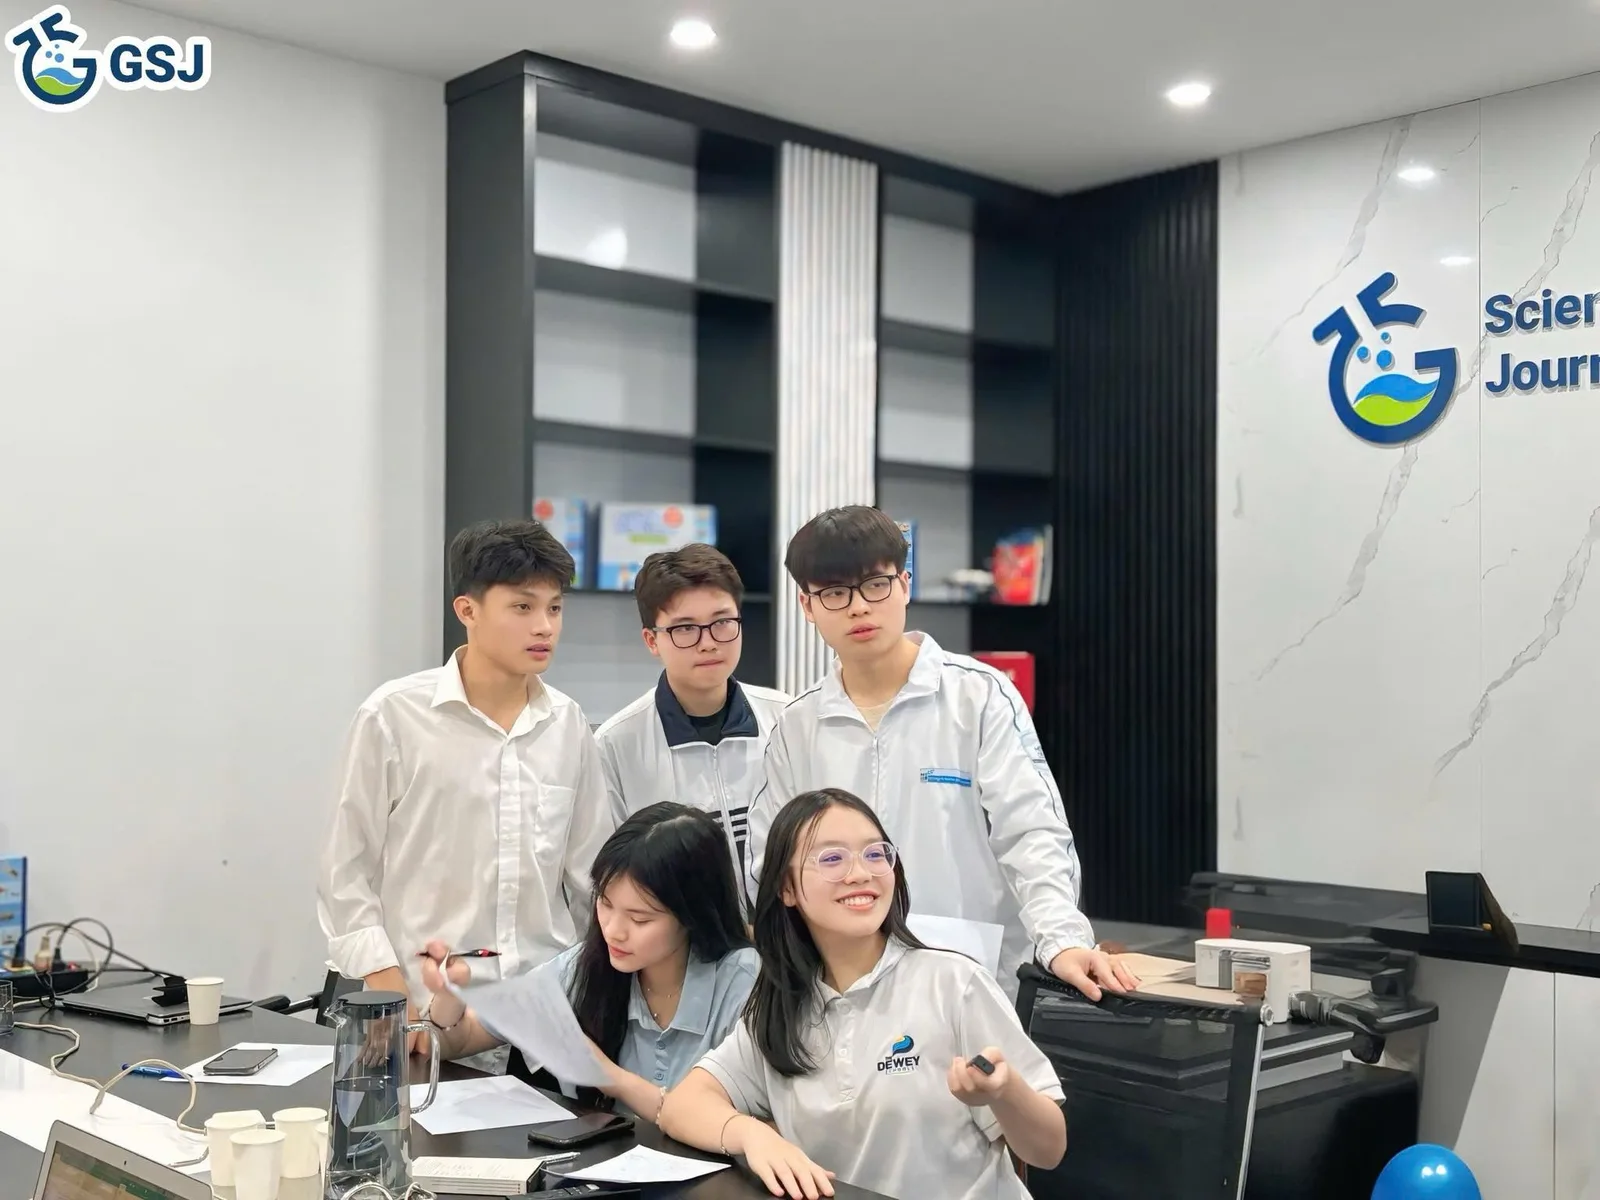
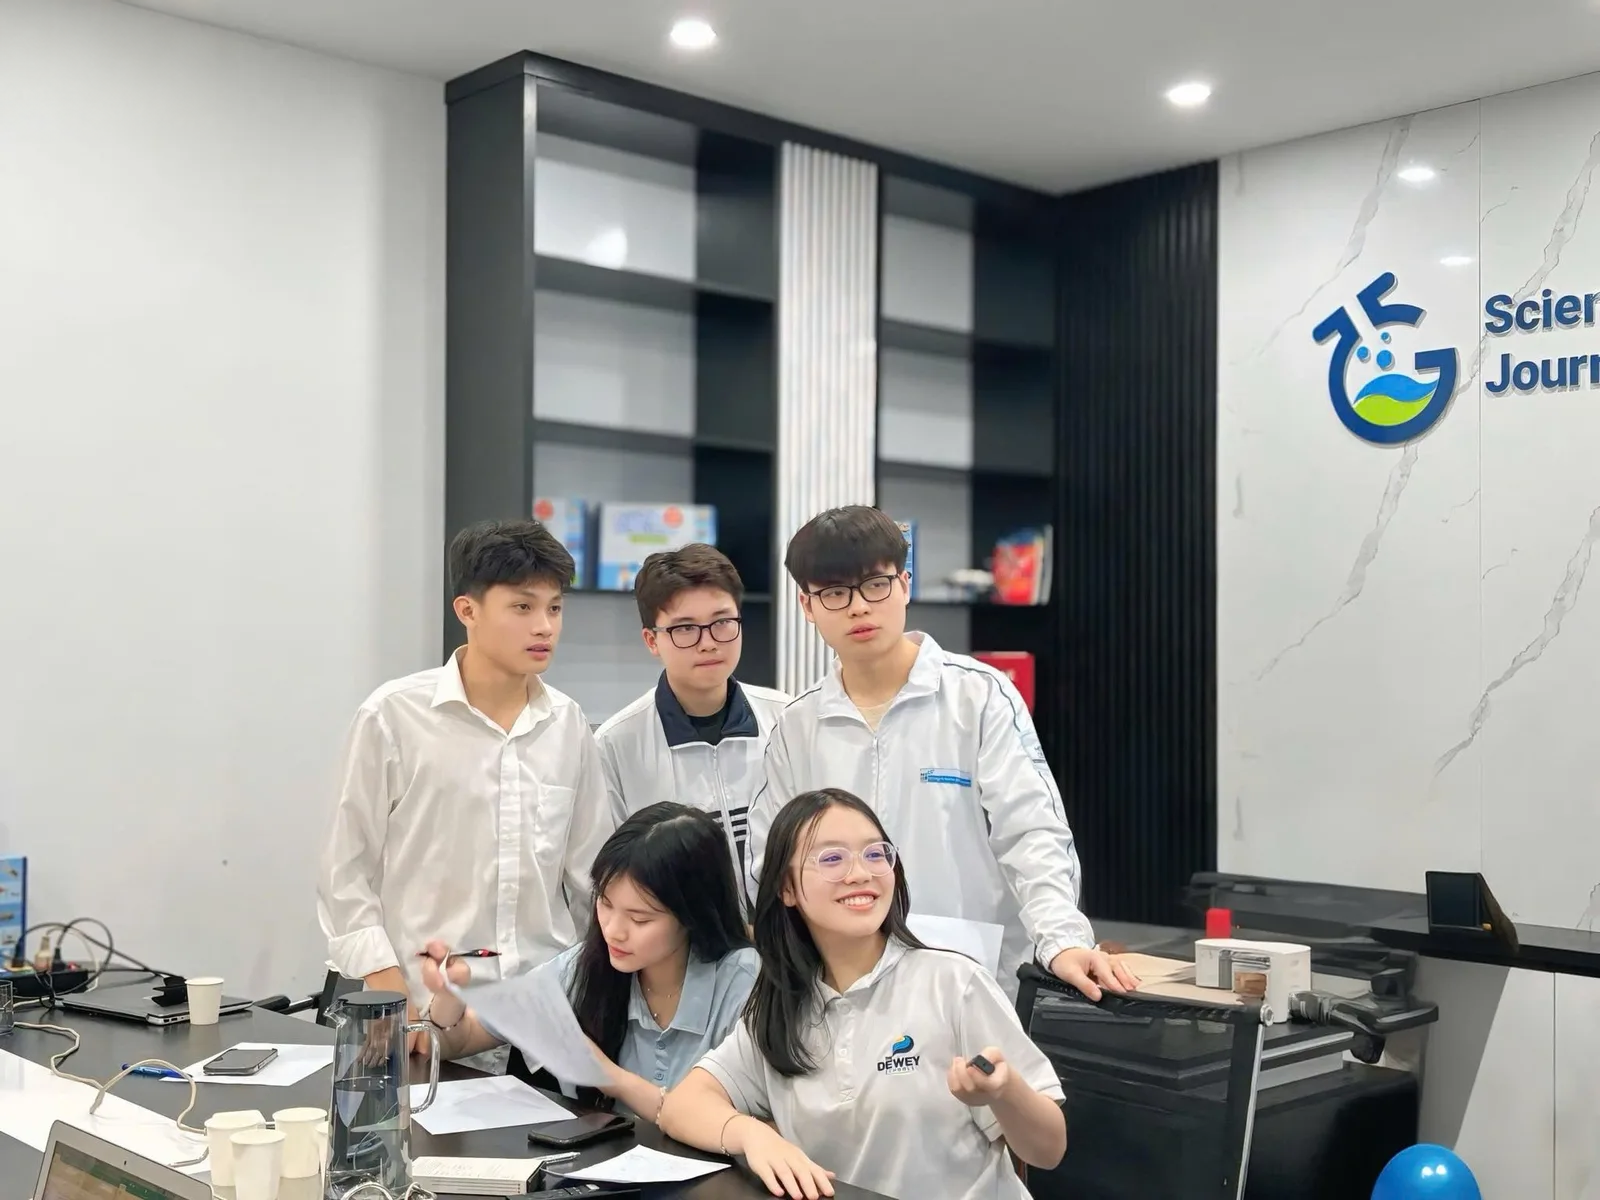
fix: polish GSJ layout, headings and CMS media refresh

Changed region(s): [[0.0, 0.0, 0.1562, 0.0925]]

diff --git a/index.html b/index.html
@@ -22,10 +22,10 @@
       href="https://fonts.googleapis.com/css2?family=Material+Symbols+Outlined:opsz,wght,FILL,GRAD@24,400,0,0"
       rel="stylesheet"
     />
-    <link rel="stylesheet" href="style.css?v=20261031-portraits" />
+    <link rel="stylesheet" href="style.css?v=20261031-approach" />
     <script src="main.js?v=20261031-cms" defer=""></script>
     <script data-gsj-cms="" src="cms-config.js?v=1" defer=""></script>
-    <script data-gsj-cms="" src="cms-client.js?v=1" defer=""></script>
+    <script data-gsj-cms="" src="cms-client.js?v=20261031-media" defer=""></script>
   </head>
   <body data-cms-page="home">
     <a class="skip-link" href="#main">Skip to content</a>
@@ -569,12 +569,12 @@
       </section>
       <section class="section pale">
         <div class="container">
-          <div class="intro-split reveal">
+          <div class="intro-split reveal" id="approach">
             <p class="eyebrow" data-cms-text="section3.t1">THE GSJ APPROACH</p>
             <div>
               <h2>
                 <span data-cms-wrap="true" data-cms-text="section3.t2"
-                  >More than academic excellence.</span
+                  >More than academic excellence,</span
                 >
                 <br />
                 <em data-cms-text="section3.t3">A foundation for life.</em>
@@ -798,7 +798,7 @@
                 OUR STUDENTS, OUR IMPACT
               </p>
               <h2 data-cms-text="section5.t2">
-                Real journeys. In their own words.
+                Real journeys, In their own words.
               </h2>
               <p class="section-intro" data-cms-text="section5.t3">
                 Hear from the students and families behind the achievements.

diff --git a/become-mentor.html b/become-mentor.html
@@ -20,11 +20,11 @@
       href="https://fonts.googleapis.com/css2?family=Material+Symbols+Outlined:opsz,wght,FILL,GRAD@24,400,0,0"
       rel="stylesheet"
     />
-    <link rel="stylesheet" href="style.css?v=20261031-portraits" />
+    <link rel="stylesheet" href="style.css?v=20261031-approach" />
     <script src="main.js?v=20261031-cms" defer=""></script>
     <script src="supabase.js?v=20261030" defer=""></script>
     <script data-gsj-cms="" src="cms-config.js?v=1" defer=""></script>
-    <script data-gsj-cms="" src="cms-client.js?v=1" defer=""></script>
+    <script data-gsj-cms="" src="cms-client.js?v=20261031-media" defer=""></script>
   </head>
   <body data-cms-page="become-mentor">
     <a class="skip-link" href="#main">Skip to content</a>
@@ -205,7 +205,7 @@
             <p class="eyebrow" data-cms-text="section1.t1">BECOME A MENTOR</p>
             <h1>
               <span data-cms-wrap="true" data-cms-text="section1.t2"
-                >Share your expertise.</span
+                >Share your expertise,</span
               >
               <br /><em data-cms-text="section1.t3"
                 >Shape a scholar’s future.</em
@@ -233,8 +233,8 @@
           </div>
           <figure class="page-hero-visual">
             <img
-              src="images/research-experience.webp"
-              alt="Mentorship in a GSJ research laboratory"
+              src="images/optimized/program_scientific_research_new.webp"
+              alt="GSJ mentor guiding students during a collaborative research session"
               class=""
               width="1600"
               height="1200"

diff --git a/mentors.html b/mentors.html
@@ -20,11 +20,11 @@
       href="https://fonts.googleapis.com/css2?family=Material+Symbols+Outlined:opsz,wght,FILL,GRAD@24,400,0,0"
       rel="stylesheet"
     />
-    <link rel="stylesheet" href="style.css?v=20261031-portraits" />
+    <link rel="stylesheet" href="style.css?v=20261031-approach" />
     <script src="main.js?v=20261031-cms" defer=""></script>
     <script src="supabase.js?v=20261030" defer=""></script>
     <script data-gsj-cms="" src="cms-config.js?v=1" defer=""></script>
-    <script data-gsj-cms="" src="cms-client.js?v=1" defer=""></script>
+    <script data-gsj-cms="" src="cms-client.js?v=20261031-media" defer=""></script>
   </head>
   <body data-cms-page="become-mentor">
     <a class="skip-link" href="#main">Skip to content</a>
@@ -201,7 +201,7 @@
             <p class="eyebrow" data-cms-text="section1.t1">BECOME A MENTOR</p>
             <h1>
               <span data-cms-wrap="true" data-cms-text="section1.t2"
-                >Share your expertise.</span
+                >Share your expertise,</span
               >
               <br /><em data-cms-text="section1.t3"
                 >Shape a scholar’s future.</em
@@ -229,8 +229,8 @@
           </div>
           <figure class="page-hero-visual">
             <img
-              src="images/research-experience.webp"
-              alt="Mentorship in a GSJ research laboratory"
+              src="images/optimized/program_scientific_research_new.webp"
+              alt="GSJ mentor guiding students during a collaborative research session"
               class=""
               width="1600"
               height="1200"

diff --git a/research.html b/research.html
@@ -20,10 +20,10 @@
       href="https://fonts.googleapis.com/css2?family=Material+Symbols+Outlined:opsz,wght,FILL,GRAD@24,400,0,0"
       rel="stylesheet"
     />
-    <link rel="stylesheet" href="style.css?v=20261031-portraits" />
+    <link rel="stylesheet" href="style.css?v=20261031-approach" />
     <script src="main.js?v=20261031-cms" defer=""></script>
     <script data-gsj-cms="" src="cms-config.js?v=1" defer=""></script>
-    <script data-gsj-cms="" src="cms-client.js?v=1" defer=""></script>
+    <script data-gsj-cms="" src="cms-client.js?v=20261031-media" defer=""></script>
   </head>
   <body data-cms-page="research">
     <a class="skip-link" href="#main">Skip to content</a>
@@ -218,7 +218,7 @@
             </p>
             <h1>
               <span data-cms-wrap="true" data-cms-text="section1.t2"
-                >Your curiosity.</span
+                >Your curiosity,</span
               >
               <br />
               <em data-cms-text="section1.t3">Original discoveries.</em>
@@ -523,7 +523,7 @@
                 OUR STUDENTS, OUR IMPACT
               </p>
               <h2 data-cms-text="section6.t2">
-                Real journeys. In their own words.
+                Real journeys, In their own words.
               </h2>
               <p class="section-intro" data-cms-text="section6.t3">
                 Hear from the students and families behind the achievements.

diff --git a/study-abroad.html b/study-abroad.html
@@ -20,10 +20,10 @@
       href="https://fonts.googleapis.com/css2?family=Material+Symbols+Outlined:opsz,wght,FILL,GRAD@24,400,0,0"
       rel="stylesheet"
     />
-    <link rel="stylesheet" href="style.css?v=20261031-portraits" />
+    <link rel="stylesheet" href="style.css?v=20261031-approach" />
     <script src="main.js?v=20261031-cms" defer=""></script>
     <script data-gsj-cms="" src="cms-config.js?v=1" defer=""></script>
-    <script data-gsj-cms="" src="cms-client.js?v=1" defer=""></script>
+    <script data-gsj-cms="" src="cms-client.js?v=20261031-media" defer=""></script>
   </head>
   <body data-cms-page="study-abroad">
     <a class="skip-link" href="#main">Skip to content</a>
@@ -220,7 +220,7 @@
             <p class="eyebrow" data-cms-text="section1.t1">GSJ STUDY ABROAD</p>
             <h1>
               <span data-cms-wrap="true" data-cms-text="section1.t2"
-                >Beyond University Admissions.</span
+                >Beyond University Admissions,</span
               >
               <br />
               <em data-cms-text="section1.t3"

diff --git a/services.html b/services.html
@@ -20,10 +20,10 @@
       href="https://fonts.googleapis.com/css2?family=Material+Symbols+Outlined:opsz,wght,FILL,GRAD@24,400,0,0"
       rel="stylesheet"
     />
-    <link rel="stylesheet" href="style.css?v=20261031-portraits" />
+    <link rel="stylesheet" href="style.css?v=20261031-approach" />
     <script src="main.js?v=20261031-cms" defer=""></script>
     <script data-gsj-cms="" src="cms-config.js?v=1" defer=""></script>
-    <script data-gsj-cms="" src="cms-client.js?v=1" defer=""></script>
+    <script data-gsj-cms="" src="cms-client.js?v=20261031-media" defer=""></script>
   </head>
   <body data-cms-page="programs">
     <a class="skip-link" href="#main">Skip to content</a>
@@ -216,7 +216,7 @@
             <p class="eyebrow" data-cms-text="section1.t1">OUR PROGRAMS</p>
             <h1>
               <span data-cms-wrap="true" data-cms-text="section1.t2"
-                >Many possibilities.</span
+                >Many possibilities,</span
               >
               <br />
               <em data-cms-text="section1.t3">Your own direction.</em>

diff --git a/student-stories.html b/student-stories.html
@@ -20,10 +20,10 @@
       href="https://fonts.googleapis.com/css2?family=Material+Symbols+Outlined:opsz,wght,FILL,GRAD@24,400,0,0"
       rel="stylesheet"
     />
-    <link rel="stylesheet" href="style.css?v=20261031-portraits" />
+    <link rel="stylesheet" href="style.css?v=20261031-approach" />
     <script src="main.js?v=20261031-cms" defer=""></script>
     <script data-gsj-cms="" src="cms-config.js?v=1" defer=""></script>
-    <script data-gsj-cms="" src="cms-client.js?v=1" defer=""></script>
+    <script data-gsj-cms="" src="cms-client.js?v=20261031-media" defer=""></script>
   </head>
   <body data-cms-page="student-stories">
     <a class="skip-link" href="#main">Skip to content</a>
@@ -206,7 +206,7 @@
             </p>
             <h1>
               <span data-cms-wrap="true" data-cms-text="section1.t2"
-                >Real experiences.</span
+                >Real experiences,</span
               >
               <br /><em data-cms-text="section1.t3">Lasting possibilities.</em>
             </h1>

diff --git a/cms-client.js b/cms-client.js
@@ -67,10 +67,21 @@
       }
       if (field.kind === "image") {
         // Static fallback paths belong to the website origin, not to Strapi.
-        const src = field.image?.url
+        let src = field.image?.url
           ? safeUrl(field.image.url, true)
           : safeUrl(field.source);
         if (!src) continue;
+        // Strapi replaces media in place, retaining its URL. Version same-origin
+        // uploads so an already cached logo/photo cannot survive a replacement.
+        // Leave external CDN/signed URLs unchanged.
+        if (field.image?.updatedAt) {
+          const version = Date.parse(field.image.updatedAt);
+          const imageUrl = new URL(src, location.href);
+          if (Number.isFinite(version) && imageUrl.origin === base.origin) {
+            imageUrl.searchParams.set("v", String(version));
+            src = imageUrl.href;
+          }
+        }
         for (const node of window.document.querySelectorAll(
           `[data-cms-image="${field.code}"]`,
         )) {

diff --git a/questions.html b/questions.html
@@ -20,11 +20,11 @@
       href="https://fonts.googleapis.com/css2?family=Material+Symbols+Outlined:opsz,wght,FILL,GRAD@24,400,0,0"
       rel="stylesheet"
     />
-    <link rel="stylesheet" href="style.css?v=20261031-portraits" />
+    <link rel="stylesheet" href="style.css?v=20261031-approach" />
     <script src="main.js?v=20261031-cms" defer=""></script>
     <script src="supabase.js?v=20261030" defer=""></script>
     <script data-gsj-cms="" src="cms-config.js?v=1" defer=""></script>
-    <script data-gsj-cms="" src="cms-client.js?v=1" defer=""></script>
+    <script data-gsj-cms="" src="cms-client.js?v=20261031-media" defer=""></script>
   </head>
   <body data-cms-page="questions">
     <a class="skip-link" href="#main">Skip to content</a>

diff --git a/contact.html b/contact.html
@@ -20,11 +20,11 @@
       href="https://fonts.googleapis.com/css2?family=Material+Symbols+Outlined:opsz,wght,FILL,GRAD@24,400,0,0"
       rel="stylesheet"
     />
-    <link rel="stylesheet" href="style.css?v=20261031-portraits" />
+    <link rel="stylesheet" href="style.css?v=20261031-approach" />
     <script src="main.js?v=20261031-cms" defer=""></script>
     <script src="supabase.js?v=20261030" defer=""></script>
     <script data-gsj-cms="" src="cms-config.js?v=1" defer=""></script>
-    <script data-gsj-cms="" src="cms-client.js?v=1" defer=""></script>
+    <script data-gsj-cms="" src="cms-client.js?v=20261031-media" defer=""></script>
   </head>
   <body data-cms-page="contact">
     <a class="skip-link" href="#main">Skip to content</a>

diff --git a/about.html b/about.html
@@ -20,10 +20,10 @@
       href="https://fonts.googleapis.com/css2?family=Material+Symbols+Outlined:opsz,wght,FILL,GRAD@24,400,0,0"
       rel="stylesheet"
     />
-    <link rel="stylesheet" href="style.css?v=20261031-portraits" />
+    <link rel="stylesheet" href="style.css?v=20261031-approach" />
     <script src="main.js?v=20261031-cms" defer=""></script>
     <script data-gsj-cms="" src="cms-config.js?v=1" defer=""></script>
-    <script data-gsj-cms="" src="cms-client.js?v=1" defer=""></script>
+    <script data-gsj-cms="" src="cms-client.js?v=20261031-media" defer=""></script>
   </head>
   <body data-cms-page="about">
     <a class="skip-link" href="#main">Skip to content</a>

diff --git a/terms.html b/terms.html
@@ -20,10 +20,10 @@
       href="https://fonts.googleapis.com/css2?family=Material+Symbols+Outlined:opsz,wght,FILL,GRAD@24,400,0,0"
       rel="stylesheet"
     />
-    <link rel="stylesheet" href="style.css?v=20261031-portraits" />
+    <link rel="stylesheet" href="style.css?v=20261031-approach" />
     <script src="main.js?v=20261031-cms" defer=""></script>
     <script data-gsj-cms="" src="cms-config.js?v=1" defer=""></script>
-    <script data-gsj-cms="" src="cms-client.js?v=1" defer=""></script>
+    <script data-gsj-cms="" src="cms-client.js?v=20261031-media" defer=""></script>
   </head>
   <body data-cms-page="terms">
     <a class="skip-link" href="#main">Skip to content</a>
